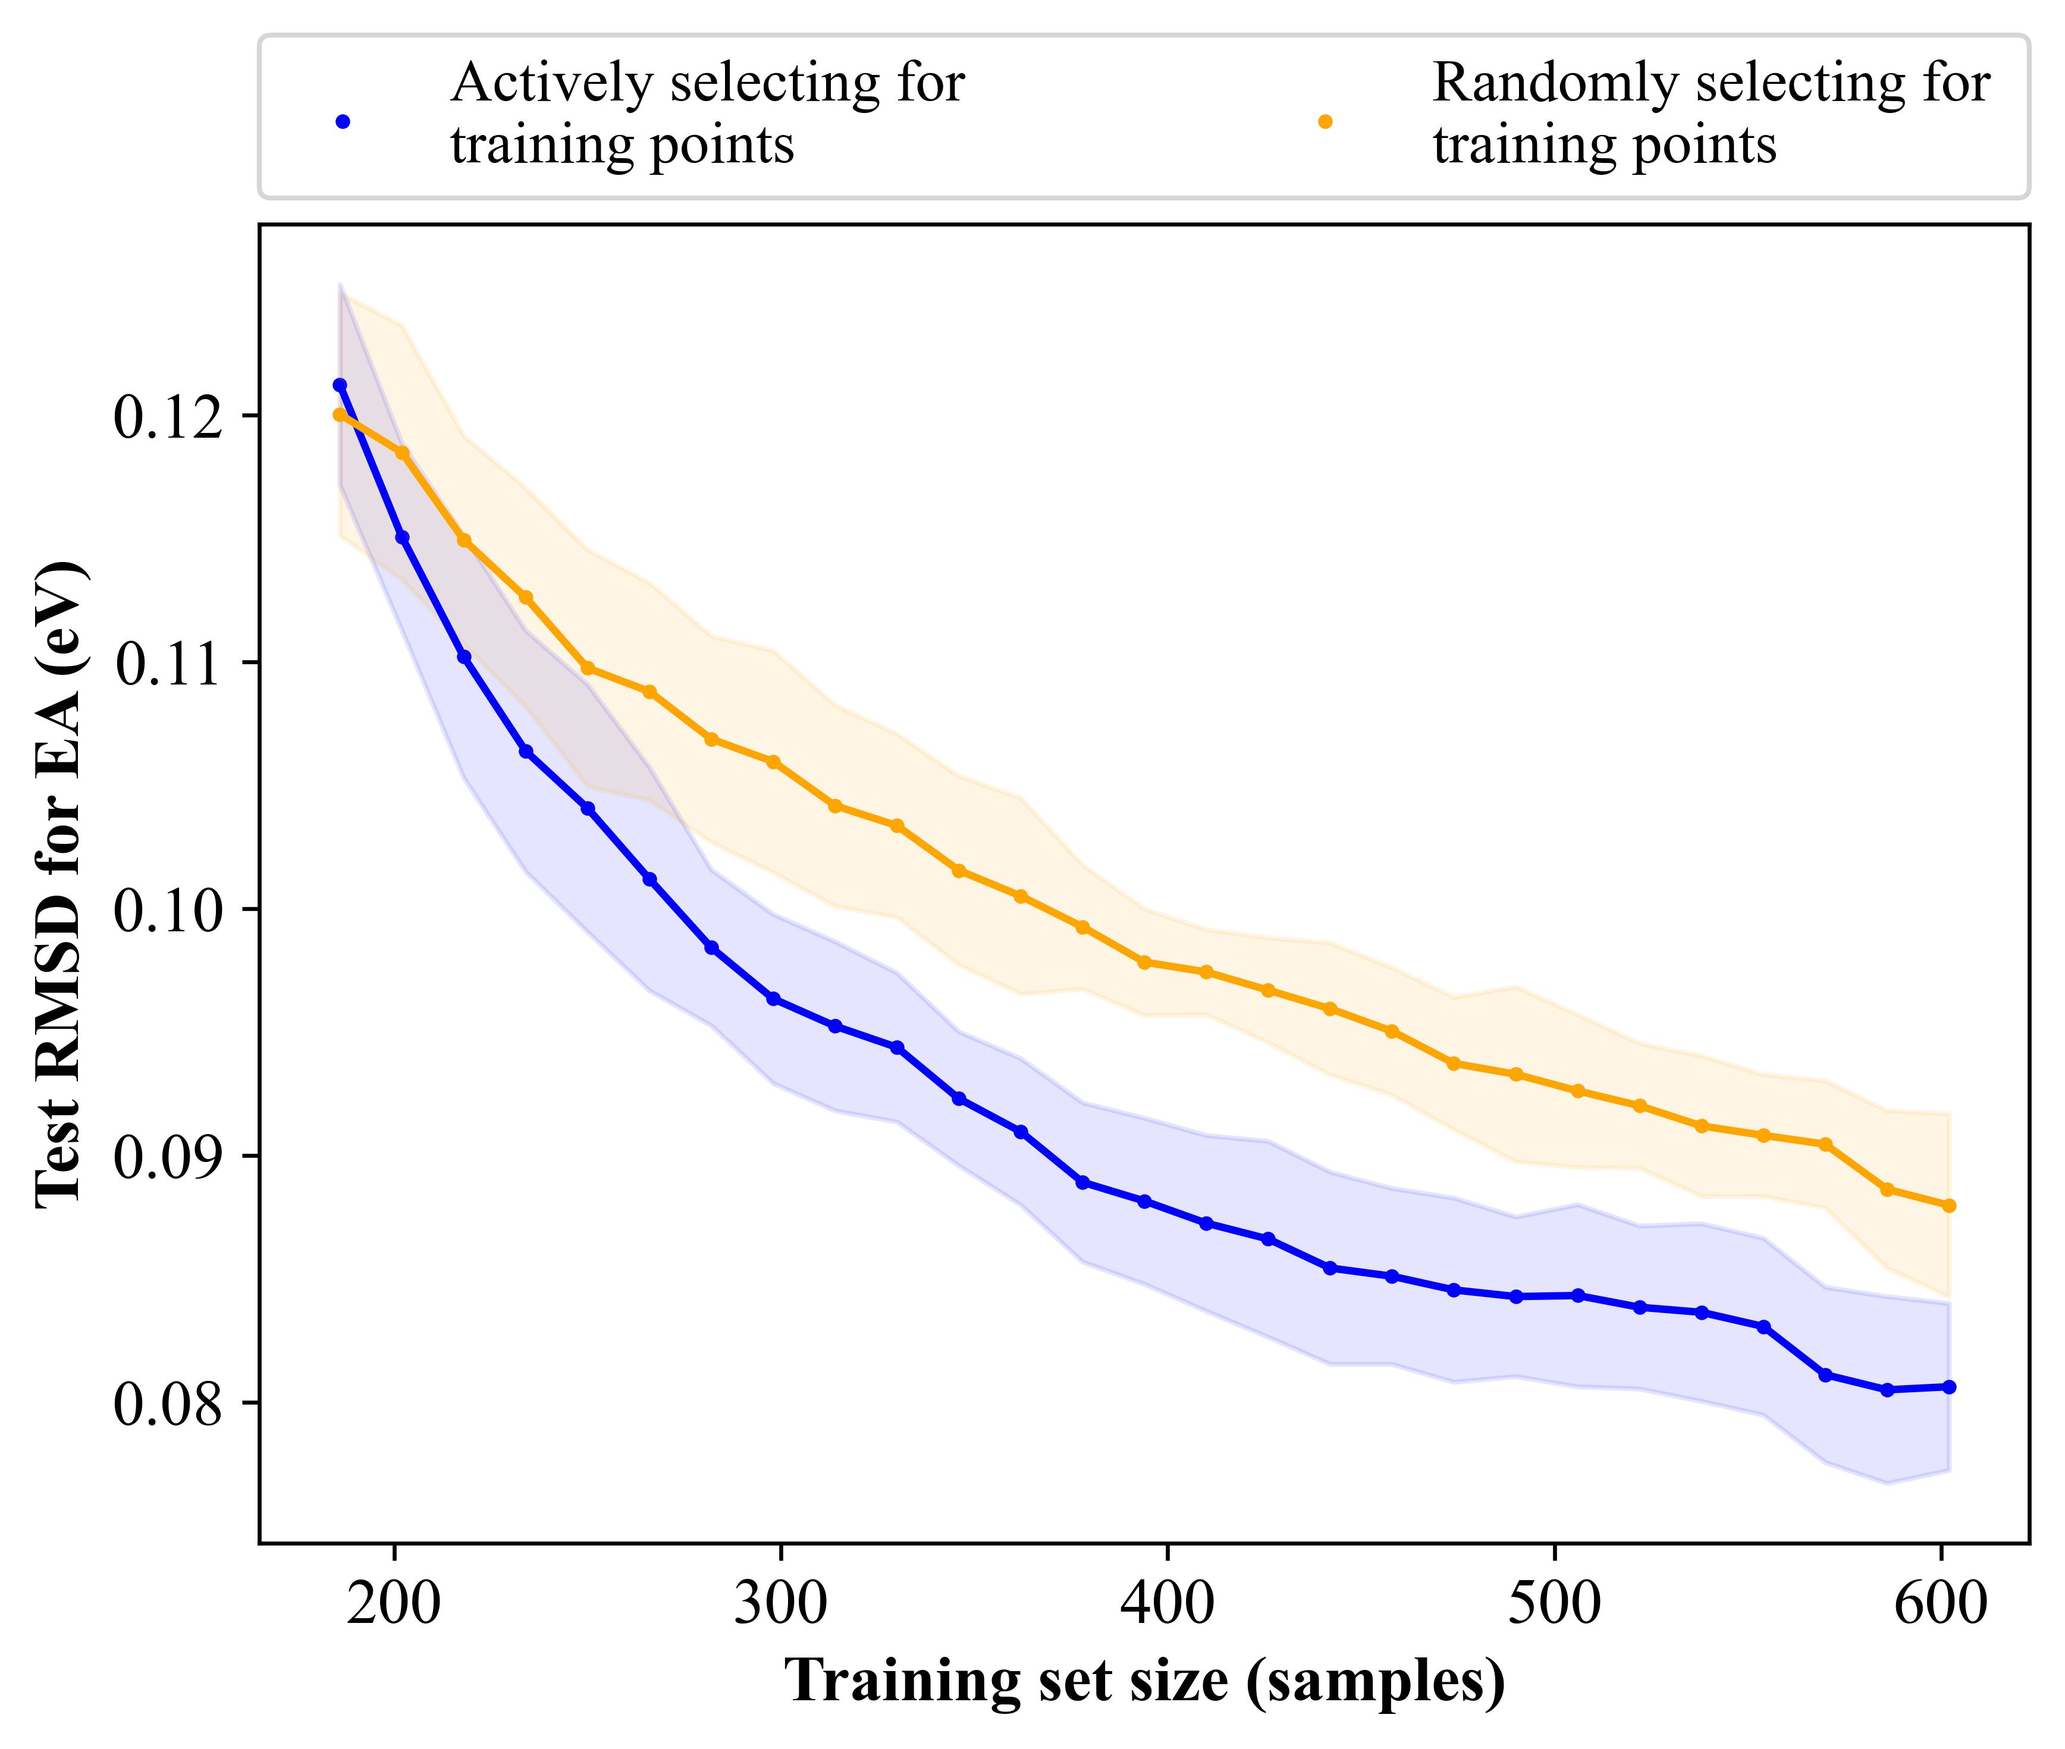
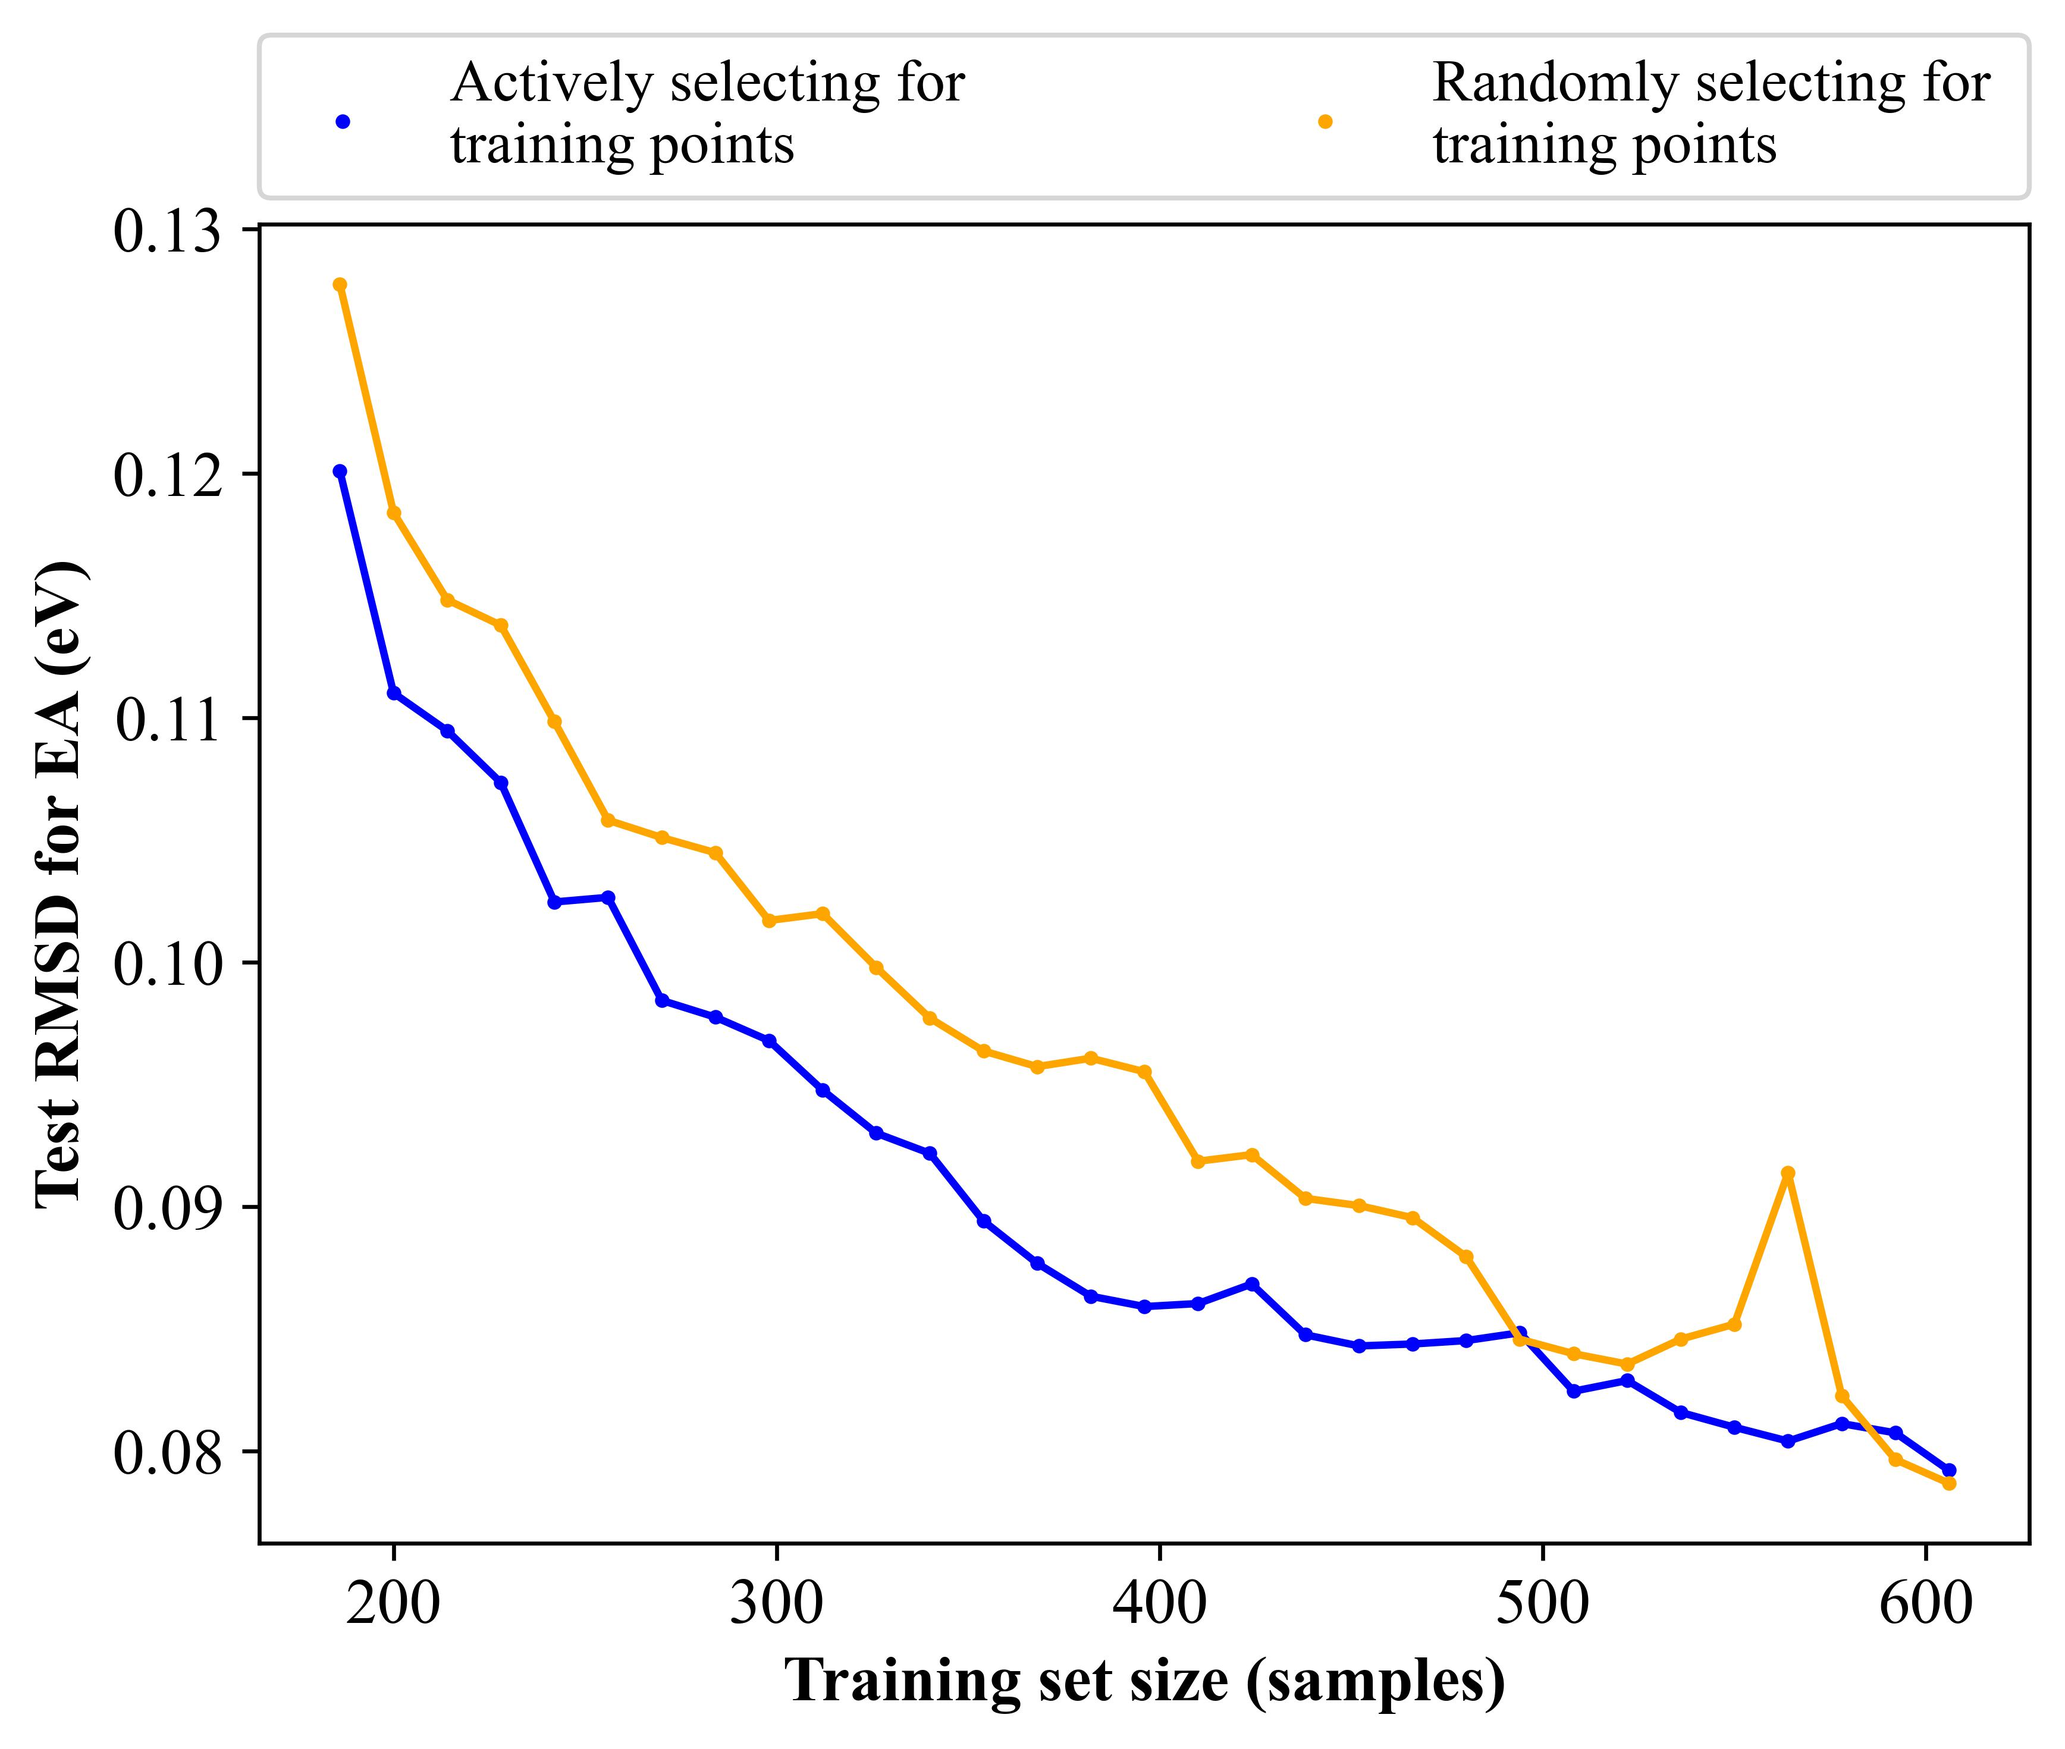
c

diff --git a/active_pipeline.py b/active_pipeline.py
@@ -39,6 +39,8 @@ def learning(
     steps, loops, repeat ,
     active = True):
 
+    all_RMSD_list = []
+
     for i in range(repeat):
         start = time.time()
         pipeline = Pipeline(
@@ -97,7 +99,9 @@ def learning(
 
                 Y_std = np.delete(Y_std ,new_id , 0)
 
-    return train_len_list, RMSD_list
+        all_RMSD_list.append(RMSD_list)
+
+    return train_len_list, all_RMSD_list
 
 def active_learning_pkl(kernel_str, data_type, repeat):
     start = time.time()

diff --git a/experiments/plot_active_learning.py b/experiments/plot_active_learning.py
@@ -11,7 +11,7 @@ import pickle
 
 from utils.plot_utility_v3 import scatter_plot, font_legend, annotate
 
-data = "mixed"
+data = "pah"
 kernel_str = "subtree"
 #for data in ["mixed","pah","subst"]:
 #with open("\\".join(path) + "\\experiments_active_learning_"+kernel_str+"_"+ data+".pkl","rb") as handle:
